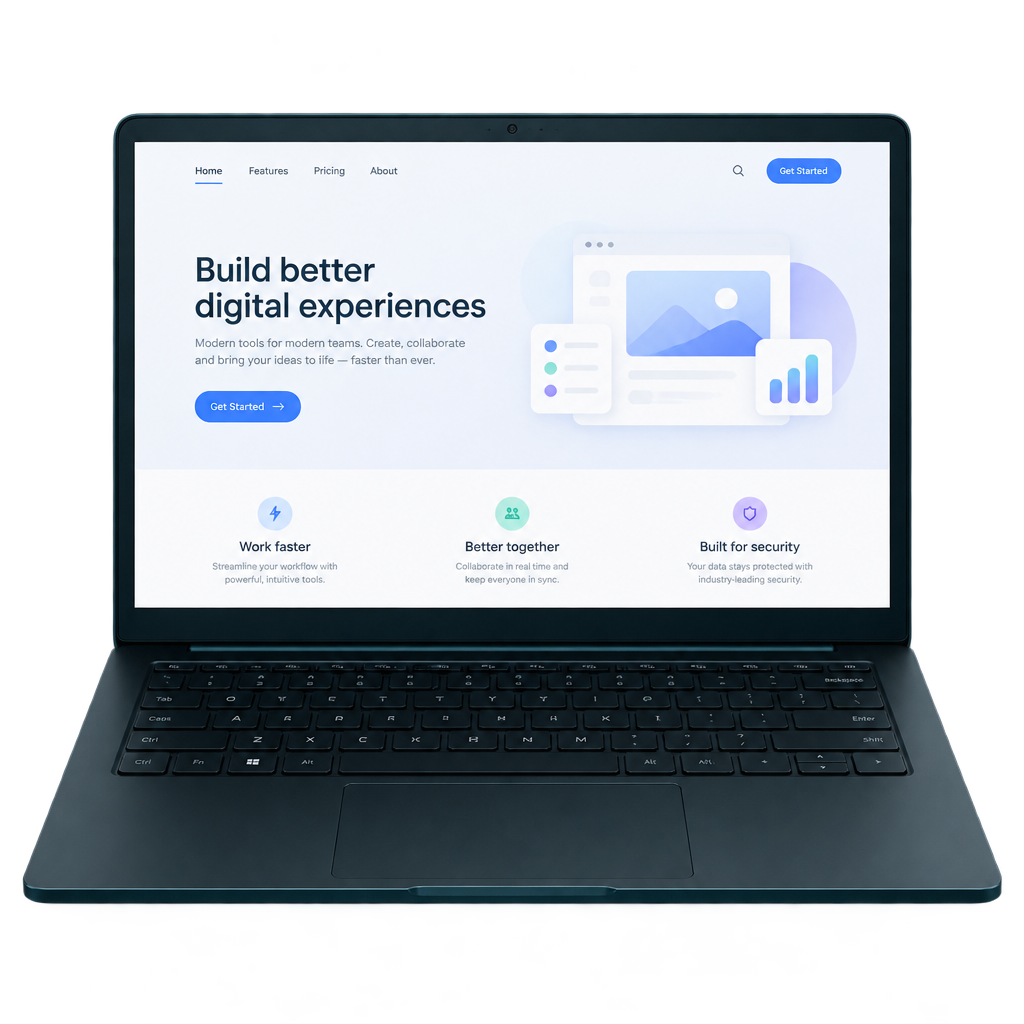
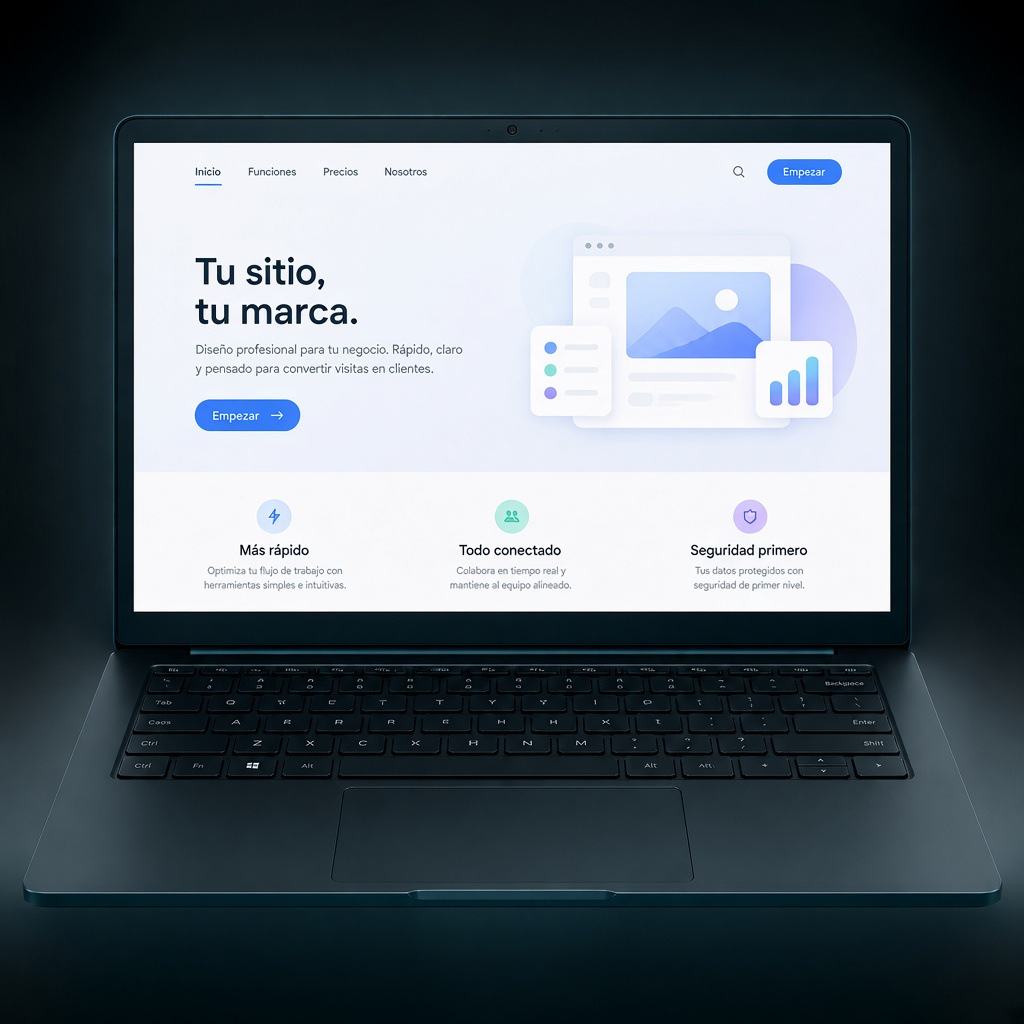
Aleja las burbujas del centro del mockup y traduce el dashboard de Páginas web
Las burbujas de Servicios se corren hacia bordes/esquinas del laptop
(y se achican en mobile, donde el ancho fijo anterior era desproporcionado
para la caja angosta), dejando libre el centro de la pantalla.

El mockup de laptop-front-web.png tenía el dashboard falso en inglés
("Build better digital experiences", "Get Started"). Se regenera con
Higgsfield (Grok Image 2.0, mismo layout/composición) con copy en español.

diff --git a/components/AnimatedBadge.tsx b/components/AnimatedBadge.tsx
@@ -25,10 +25,10 @@ export function AnimatedBadge({
       <motion.div
         animate={{ y: [0, -6, 0] }}
         transition={{ duration: 3 + index * 0.4, repeat: Infinity, ease: "easeInOut", delay: index * 0.5 }}
-        className="flex max-w-[210px] items-center gap-2 rounded-2xl border border-brand-accent/30 bg-brand-black/80 px-3.5 py-2.5 shadow-lg shadow-black/30 backdrop-blur"
+        className="flex max-w-[130px] items-center gap-1.5 rounded-2xl border border-brand-accent/30 bg-brand-black/85 px-2.5 py-1.5 shadow-lg shadow-black/30 backdrop-blur sm:max-w-[190px] sm:gap-2 sm:px-3.5 sm:py-2.5"
       >
-        <Icon className="h-4 w-4 shrink-0 text-brand-accent" strokeWidth={2} />
-        <span className="font-body text-xs font-medium leading-snug text-brand-cream">
+        <Icon className="h-3.5 w-3.5 shrink-0 text-brand-accent sm:h-4 sm:w-4" strokeWidth={2} />
+        <span className="font-body text-[10px] font-medium leading-snug text-brand-cream sm:text-xs">
           {label}
         </span>
       </motion.div>

diff --git a/components/ServiceBlock.tsx b/components/ServiceBlock.tsx
@@ -7,9 +7,9 @@ import type { LucideIcon } from "lucide-react";
 import { AnimatedBadge } from "@/components/AnimatedBadge";
 
 const BADGE_POSITIONS = [
-  "top-[16%] -left-[2%] sm:left-[0%]",
-  "top-[48%] -right-[4%] sm:-right-[1%]",
-  "bottom-[2%] left-[8%] sm:left-[12%]",
+  "top-[2%] -left-[8%] sm:-left-[2%]",
+  "top-[10%] -right-[10%] sm:-right-[4%]",
+  "bottom-[-6%] left-[18%] sm:left-[24%]",
 ];
 
 export function ServiceBlock({
